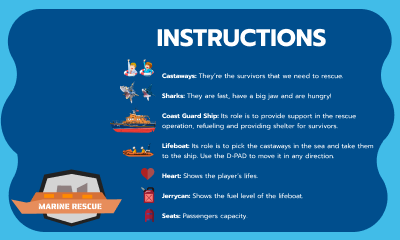
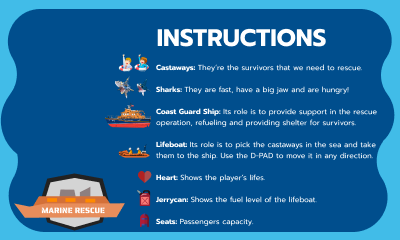
Top List, Instructions, credits

Changed region(s): [[0.27, 0.2333, 0.96, 0.5542], [0.03, 0.7, 0.81, 0.9625], [0.3, 0.5833, 0.96, 0.6708]]

diff --git a/marine_rescue/source/main.c b/marine_rescue/source/main.c
@@ -29,7 +29,7 @@ Lifeboat *lboat = &lifeboat;
 CoastGuardShip *cgship = &coastguardship;
 
 // TOP Screens
-static Screen game_title, sea, game_over, top_list;
+static Screen game_title, sea, game_over, top_list, instructions, credits;
 
 // Bottom Screens
 static Screen menu, scoreboard, pause;
@@ -191,6 +191,26 @@ void init_top_list_screen()
 	sprite->dy = 1.0f;
 }
 
+void init_instructions_screen()
+{
+	Screen *sprite = &instructions;
+	// Position, rotation and SPEED
+	C2D_SpriteFromSheet(&sprite->spr, screens_spriteSheet, 2);
+	C2D_SpriteSetCenter(&sprite->spr, 0.5f, 1.0f);
+	C2D_SpriteSetPos(&sprite->spr, TOP_SCREEN_WIDTH / 2, 240.0f);
+	sprite->dy = 1.0f;
+}
+
+void init_credits_screen()
+{
+	Screen *sprite = &credits;
+	// Position, rotation and SPEED
+	C2D_SpriteFromSheet(&sprite->spr, screens_spriteSheet, 3);
+	C2D_SpriteSetCenter(&sprite->spr, 0.5f, 1.0f);
+	C2D_SpriteSetPos(&sprite->spr, TOP_SCREEN_WIDTH / 2, 240.0f);
+	sprite->dy = 1.0f;
+}
+
 // Bottom Screens
 void init_scoreboard_screen()
 {
@@ -239,13 +259,11 @@ void score_dialog()
 	if (button_pressed == SWKBD_BUTTON_CONFIRM)
 	{
 		save_score(input_buf, score_data);
-		// score_data = 0;
 	}
 	else
 	{
 		score_data = 0;
 	}
-	// }
 }
 
 void save_score(char *name, int score_data)
@@ -827,6 +845,15 @@ void drawer_top_list(float size)
 	sb_free(records);
 }
 
+void drawer_instructions_screen()
+{
+	C2D_DrawSprite(&instructions.spr);
+}
+
+void drawer_credits_screen()
+{
+	C2D_DrawSprite(&credits.spr);
+}
 // Bottom Screens
 void drawer_scoreboard_screen()
 {
@@ -939,6 +966,18 @@ void gameStatusController(int game_sentinel, int time_sentinel)
 	case MENU_GAMESTATE:
 		game_status = MENU_GAMESTATE;
 		break;
+
+	case TOP_LIST_GAMESTATE:
+		game_status = TOP_LIST_GAMESTATE;
+		break;
+
+	case INSTRUCTIONS_GAMESTATE:
+		game_status = INSTRUCTIONS_GAMESTATE;
+		break;
+
+	case CREDITS_GAMESTATE:
+		game_status = CREDITS_GAMESTATE;
+		break;
 	}
 }
 
@@ -993,6 +1032,12 @@ void gameInputController(int game_sentinel, u32 kDown, u32 kHeld)
 	{
 		if (kDown & KEY_START)
 			gameStatusController(START_GAMESTATE, INITIAL_TIME_STATE);
+		if (kDown & KEY_A)
+			gameStatusController(TOP_LIST_GAMESTATE, STOP_TIME_CONTINUITY);
+		if (kDown & KEY_X)
+			gameStatusController(INSTRUCTIONS_GAMESTATE, STOP_TIME_CONTINUITY);
+		if (kDown & KEY_Y)
+			gameStatusController(CREDITS_GAMESTATE, STOP_TIME_CONTINUITY);
 	}
 
 	// START GAMESTATE Controls
@@ -1039,6 +1084,8 @@ void gameInitController()
 	init_sea_screen();
 	init_game_over_screen();
 	init_top_list_screen();
+	init_instructions_screen();
+	init_credits_screen();
 
 	// Bottom Screens
 	init_menu_screen();
@@ -1078,9 +1125,20 @@ void gameDrawersTopScreenController(int game_sentinel)
 	}
 	else if (game_sentinel == MENU_GAMESTATE)
 	{
-		// drawer_game_title_screen();
+		drawer_game_title_screen();
+	}
+	else if (game_sentinel == TOP_LIST_GAMESTATE)
+	{
 		drawer_top_list_screen();
 		drawer_top_list(FONT_SIZE);
+	}
+	else if (game_sentinel == INSTRUCTIONS_GAMESTATE)
+	{
+		drawer_instructions_screen();
+	}
+	else if (game_sentinel == CREDITS_GAMESTATE)
+	{
+		drawer_credits_screen();
 	}
 	else if (game_sentinel == GAMEOVER_GAMESTATE)
 	{
@@ -1099,7 +1157,7 @@ void gameDrawersBottomScreenController(int game_sentinel)
 	{
 		drawer_pause_screen();
 	}
-	else if (game_sentinel == MENU_GAMESTATE)
+	else if (game_sentinel == MENU_GAMESTATE || game_sentinel == TOP_LIST_GAMESTATE || game_sentinel == INSTRUCTIONS_GAMESTATE || game_sentinel == CREDITS_GAMESTATE)
 	{
 		drawer_menu_screen();
 	}

diff --git a/marine_rescue/source/marine_rescue.h b/marine_rescue/source/marine_rescue.h
@@ -62,14 +62,17 @@
 /* Enumerated variables */
 typedef enum
 {
-    EXIT_GAMESTATE,     // 0
-    START_GAMESTATE,    // 1
-    NEW_GAMESTATE,      // 2
-    PAUSED_GAMESTATE,   // 3
-    LEVEL_UP_GAMESTATE, // 4
-    GAMEOVER_GAMESTATE, // 5
-    WIN_GAMESTATE,      // 6
-    MENU_GAMESTATE      // 7
+    EXIT_GAMESTATE,         // 0
+    START_GAMESTATE,        // 1
+    NEW_GAMESTATE,          // 2
+    PAUSED_GAMESTATE,       // 3
+    LEVEL_UP_GAMESTATE,     // 4
+    GAMEOVER_GAMESTATE,     // 5
+    WIN_GAMESTATE,          // 6
+    MENU_GAMESTATE,         // 7
+    TOP_LIST_GAMESTATE,     // 8
+    INSTRUCTIONS_GAMESTATE, // 9
+    CREDITS_GAMESTATE       //10
 } game_state;
 
 typedef enum
@@ -163,13 +166,15 @@ void init_coastguardship();
 // TOP Screens
 void init_game_title_screen();
 void init_sea_screen();
+void init_game_over_screen();
 void init_top_list_screen();
+void init_instructions_screen();
+void init_credits_screen();
 
 // Bottom Screens
 void init_scoreboard_screen();
 void init_pause_screen();
 void init_menu_screen();
-void init_game_over_screen();
 
 /*Top List System */
 void score_dialog();
@@ -220,15 +225,17 @@ void drawer_coastguardship();
 // TOP Screens
 void drawer_game_title_screen();
 void drawer_sea_screen();
+void drawer_game_over_screen();
 void drawer_top_list_screen();
 void drawer_top_list(float size);
+void drawer_instructions_screen();
+void drawer_credits_screen();
 
 // Bottom Screens
 void drawer_scoreboard_screen();
 void drawer_dynamic_score(float size);
 void drawer_pause_screen();
 void drawer_menu_screen();
-void drawer_game_over_screen();
 
 /* System Functions */
 void sceneInit_bottom();
